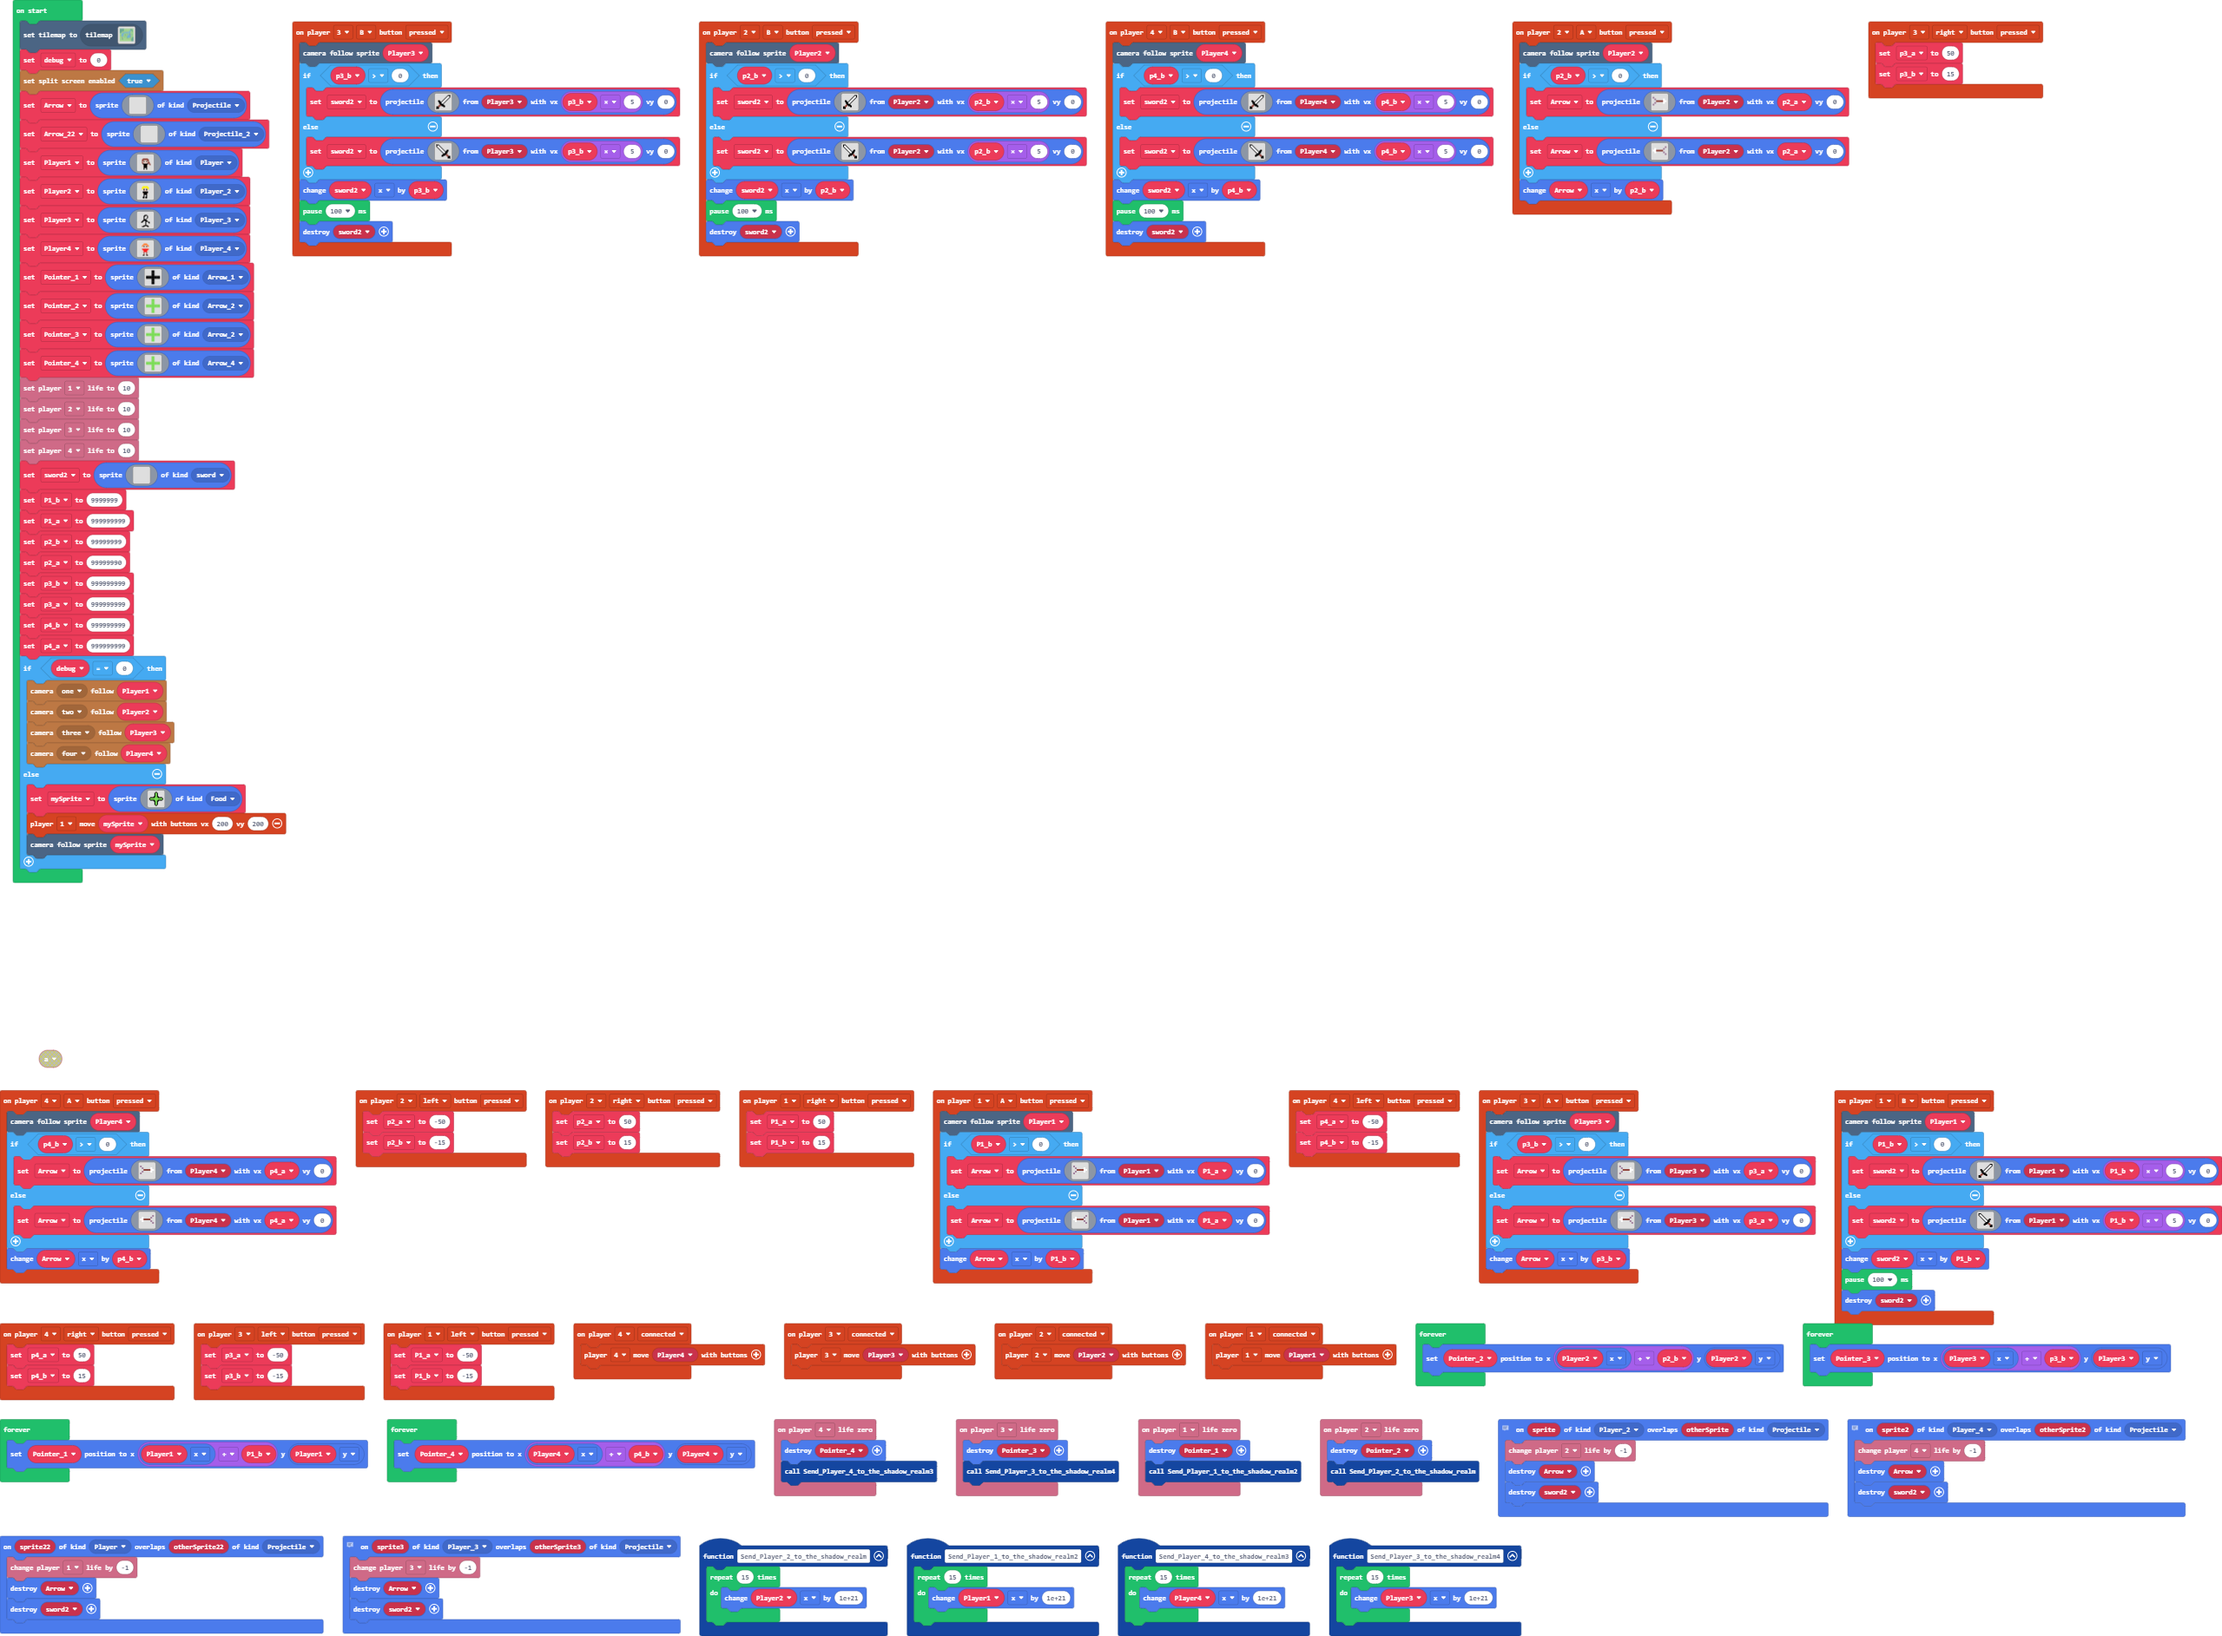
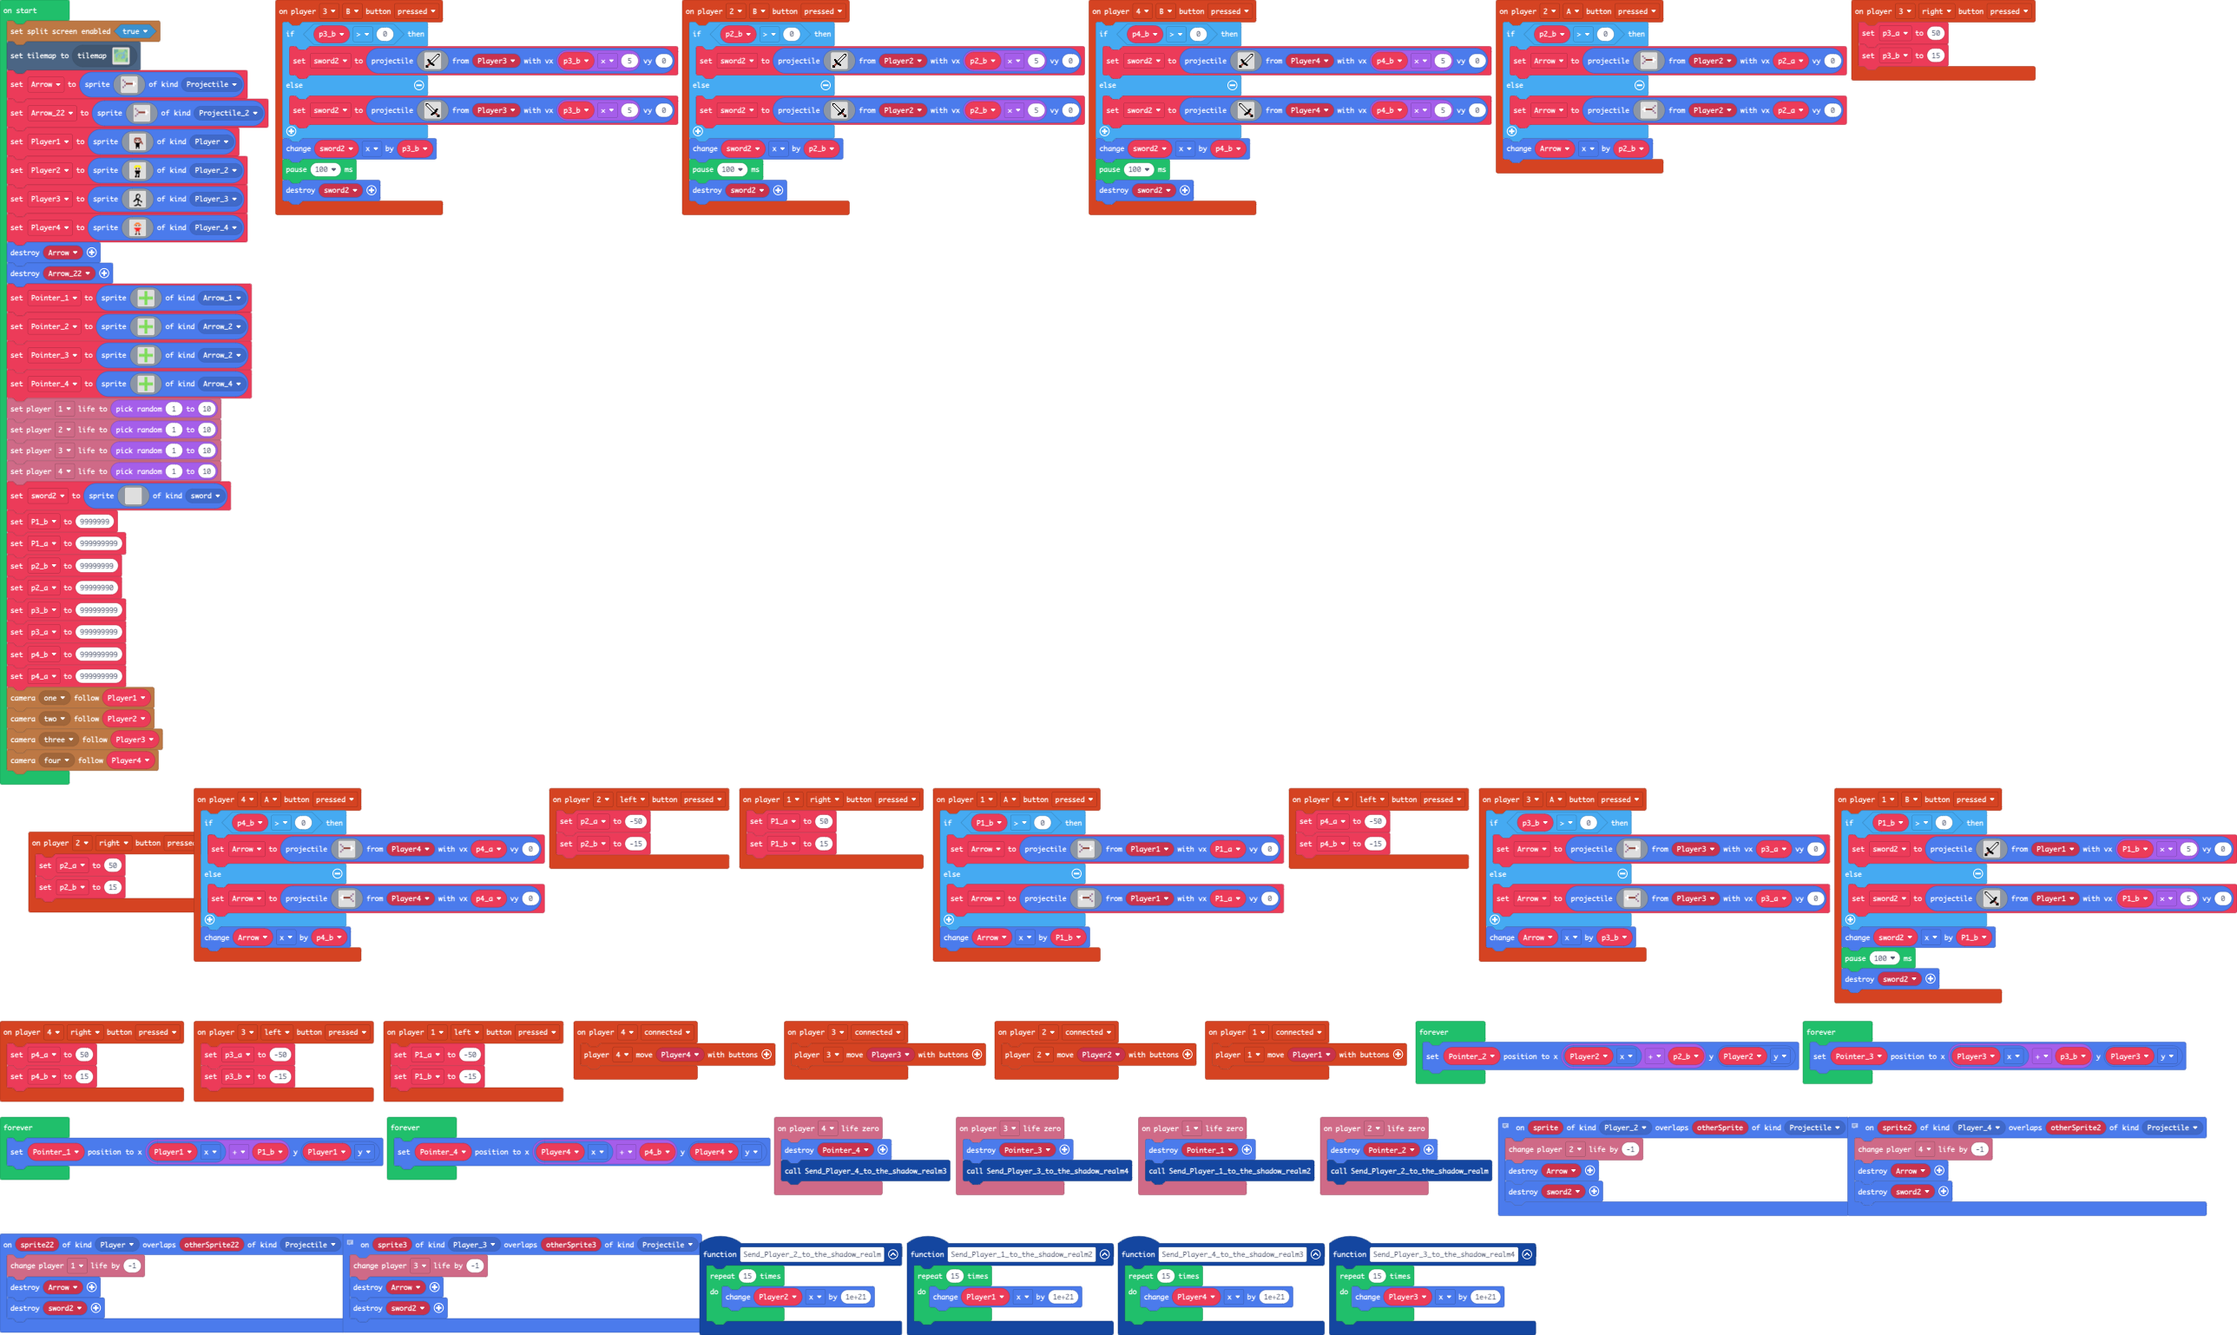
Update main.blocks, main.ts

diff --git a/main.ts b/main.ts
@@ -419,6 +419,7 @@ let Player3: Sprite = null
 let Player2: Sprite = null
 let Player1: Sprite = null
 let Arrow: Sprite = null
+splitScreen.setSplitScreenEnabled(true)
 tiles.setCurrentTilemap(tilemap`arena`)
 let debug = 0
 splitScreen.setSplitScreenEnabled(true)
@@ -542,10 +543,10 @@ Pointer_4 = sprites.create(img`
     . . 7 . . 
     . . 7 . . 
     `, SpriteKind.Arrow_4)
-info.player1.setLife(10)
-info.player2.setLife(10)
-info.player3.setLife(10)
-info.player4.setLife(10)
+info.player1.setLife(randint(1, 10))
+info.player2.setLife(randint(1, 10))
+info.player3.setLife(randint(1, 10))
+info.player4.setLife(randint(1, 10))
 sword2 = sprites.create(img`
     . . . . . . . . . . . . . . . . 
     . . . . . . . . . . . . . . . . 
